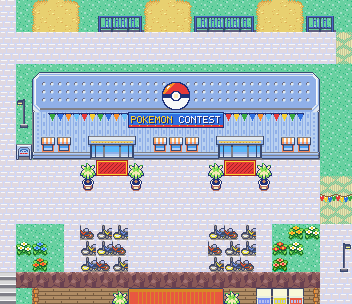
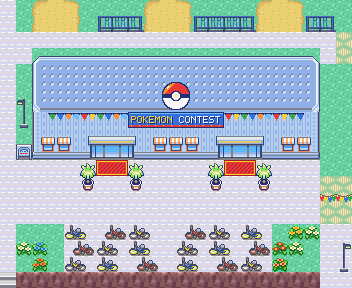
Mall roof one row taller; parked bikes drawn whole (two display columns)
Claude-Session: https://claude.ai/code/session_015nAeBdQj1XXGE9TrWVaT6H

diff --git a/dev_scripts/lilycove_redesign/layout.py b/dev_scripts/lilycove_redesign/layout.py
@@ -222,9 +222,9 @@ garden(-16,35,-15,40,27); garden(-10,35,-8,38,28); fence(-10,-8,39) if False els
 # awnings (vitrines), two double glass doors; plus the contest screen, the Poké Ball and pennants.
 def mall(x0,y0,W=18):
     O=lambda ox,oy: norm(o(ox,oy))
-    for r,oy in enumerate((18,19,22)):                                   # flat roof (Contest Hall roof pieces)
-        put(x0,y0+r,O(20,oy)); put(x0+W-1,y0+r,O(26,oy))
-        for x in range(x0+1,x0+W-1): put(x,y0+r,O(21,oy))
+    for r,oy in enumerate((18,19,19,22)):                                # flat roof (Contest Hall roof pieces),
+        put(x0,y0-1+r,O(20,oy)); put(x0+W-1,y0-1+r,O(26,oy))             # starting one row above the block
+        for x in range(x0+1,x0+W-1): put(x,y0-1+r,O(21,oy))
     y=y0+3                                                               # facade band under the roof
     put(x0,y,O(23,1)); put(x0+W-1,y,O(31,1))
     for x in range(x0+1,x0+W-1): put(x,y,O(24,1))
@@ -247,9 +247,9 @@ sign(-5,18); paving(-5,19,-4,20)                                         # Dept.
 garden(-5,23,14,26,32)                                                       # upper level, above the step
 paving(-2,23,11,26)                                                          # bike parking in front of the mall
 BIKES=('bike_yellow','bike_blue','bike_red')
-for gx in (-1,7):                                                            # two racks, three rows of bikes each
+for gx in (-2,5):                                                            # two groups, three rows of three bikes
     for r in range(3):
-        for k in range(3): art(BIKES[(r+k+gx)%3],gx+k,23+r,bottom='paving')
+        for k in range(3): art(BIKES[(r+k+gx)%3],gx+2*k,23+r,bottom='paving')
 ledge(-5,14,26)                                                             # the step continues east of the street
 # --- seaside café (replaces the Pokémon Center and the harbor building) on the lower level
 fill(-5,27,14,40,GRASS)

diff --git a/dev_scripts/lilycove_redesign/port_art.py b/dev_scripts/lilycove_redesign/port_art.py
@@ -199,9 +199,13 @@ for _n, _mk in (('mall_ticker', _M.ticker), ('carpet_mat', _M.carpet_mat)):
 FLOOR.add('carpet_mat')
 
 # ---- parked bikes (Rydel's Cycles display, Mauville), mapped onto palette 11 ----
-def _bike(ids, y0):
-    im = Image.new('RGBA', (16, 16 * len(ids)), (0, 0, 0, 0))
-    for i, m in enumerate(ids): im.alpha_composite(A.top_layer('primary/building', 'secondary/bike_shop', [m]), (0, 16 * i))
-    return im.crop((0, y0, 16, y0 + 16))
-for _n, _ids, _y0 in (('bike_yellow', [0x211, 0x219], 8), ('bike_blue', [0x221, 0x206], 8), ('bike_red', [0x254, 0x246], 0)):
-    _CANVAS[_n] = _fixed(_bike(_ids, _y0), 11); PAL_OF[_n] = 11; ART[_n] = (lambda n=_n: _CANVAS[n])
+def _bike(cols, y0):
+    """one parked bike, 32x16 (the display bikes are ~22 px wide, over two metatile columns)"""
+    h = len(cols[0]); im = Image.new('RGBA', (32, 16 * h), (0, 0, 0, 0))
+    for cx, col in enumerate(cols):
+        for r, m in enumerate(col): im.alpha_composite(A.top_layer('primary/building', 'secondary/bike_shop', [m]), (16 * cx, 16 * r))
+    return im.crop((0, y0, 32, y0 + 16))
+for _n, _cols, _y0 in (('bike_yellow', [[0x211, 0x219], [0x212, 0x21a]], 8),
+                       ('bike_blue', [[0x221, 0x206], [0x222, 0x207]], 8),
+                       ('bike_red', [[0x253, 0x245], [0x254, 0x246]], 0)):
+    _CANVAS[_n] = _fixed(_bike(_cols, _y0), 11); PAL_OF[_n] = 11; ART[_n] = (lambda n=_n: _CANVAS[n])

diff --git a/docs/lilycove/README.md b/docs/lilycove/README.md
@@ -121,7 +121,7 @@ Rota 121 e ao Safari. Tiles iguais ou espelhados são reaproveitados (espaço li
 
 ## Shopping (Loja de Departamentos)
 Ocupa o quarteirão inteiro entre a rua norte e a avenida, acima do café.
-* **Telhado plano** com as peças do telhado do Centro de Concursos original (repetidas na
+* **Telhado plano** (4 linhas) com as peças do telhado do Centro de Concursos original (repetidas na
   horizontal, sem custo de tiles), com a **Pokébola** na frente do telhado.
 * Fachada com as **peças originais da Loja de Departamentos de Lilycove**, alongada para 18
   tiles: faixa com **bandeirolas** e a **faixa de LED "POKEMON CONTEST"** (o telão), **vitrines
